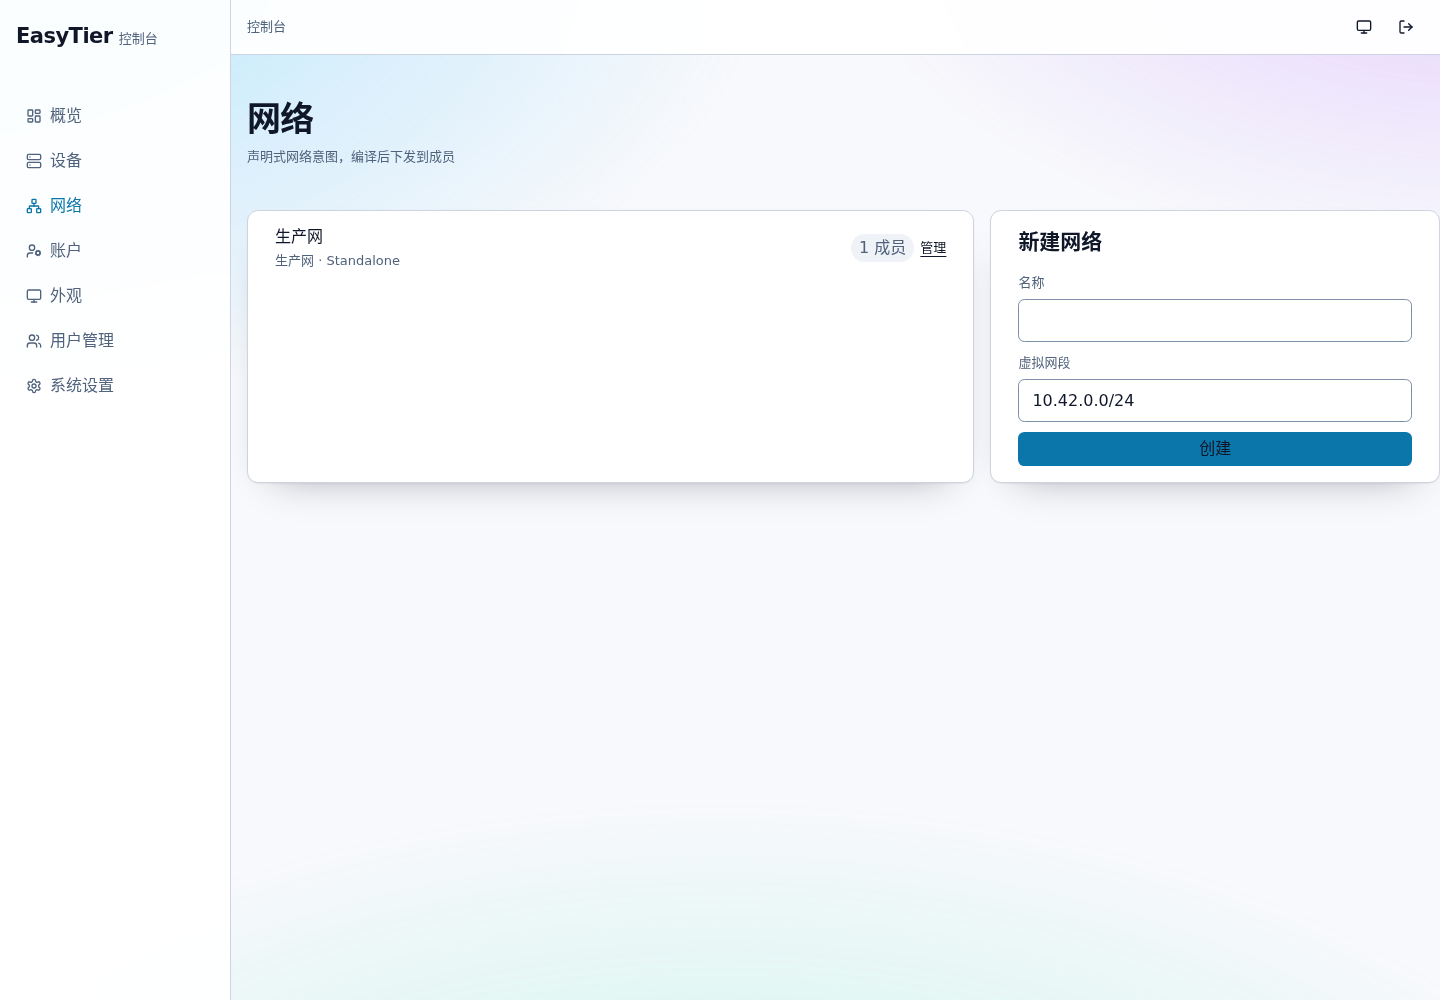
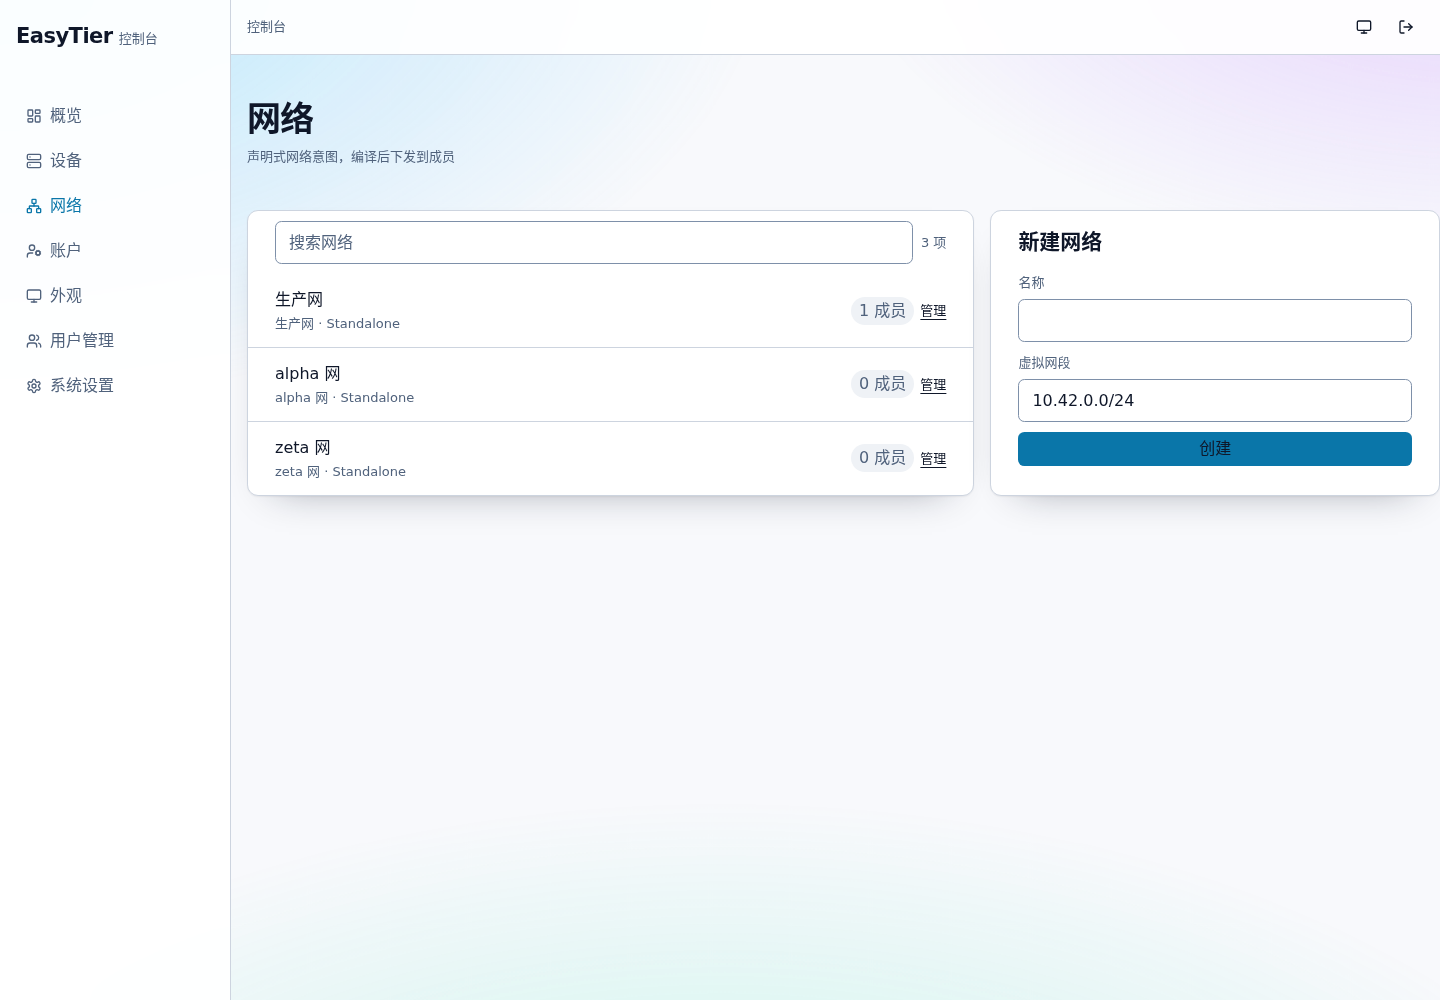
client: search, sort and a count on the network list
The original list filters as you type, sorts by display name and shows how many
items are left; all three are local to the page. Verified in a browser: typing
alpha leaves one row, a miss shows the empty state with a clear button, and the
order matches the browser's own collation.

diff --git a/client/src/features/networks/networks-page.tsx b/client/src/features/networks/networks-page.tsx
@@ -10,6 +10,7 @@ export function NetworksPage() {
   const networks = useQuery({ queryKey: ['networks'], queryFn: api.networks });
   const [name, setName] = useState('');
   const [cidr, setCidr] = useState('10.42.0.0/24');
+  const [query, setQuery] = useState('');
 
   const create = useMutation({
     mutationFn: () => api.createNetwork(name, cidr),
@@ -26,6 +27,19 @@ export function NetworksPage() {
   };
 
   const rows = networks.data ?? [];
+  // The original console filters as you type and sorts by display name; both are
+  // local to the page because the list is small and the server has no query.
+  const needle = query.trim().toLocaleLowerCase();
+  const visible = rows
+    .filter((network) => {
+      if (!needle) return true;
+      return (
+        network.display_name.toLocaleLowerCase().includes(needle) ||
+        network.network_name.toLocaleLowerCase().includes(needle)
+      );
+    })
+    .slice()
+    .sort((a, b) => a.display_name.localeCompare(b.display_name));
 
   return (
     <div className="space-y-[var(--gap-section)]">
@@ -39,6 +53,20 @@ export function NetworksPage() {
       <div className="phi-split gap-[var(--gap-card)]">
         <Card>
           <CardBody className="p-0">
+          <div className="flex flex-wrap items-center justify-between gap-[var(--u-3)] px-[var(--pad-card)] py-[var(--u-4)]">
+            <label className="min-w-0 flex-1">
+              <span className="sr-only">{copy.networks.search}</span>
+              <Input
+                value={query}
+                onChange={(event) => setQuery(event.target.value)}
+                placeholder={copy.networks.search}
+                aria-label={copy.networks.search}
+              />
+            </label>
+            <span className="shrink-0 text-phi-sm text-muted-foreground">
+              {visible.length} {copy.networks.count}
+            </span>
+          </div>
             {networks.isLoading ? (
               <div className="space-y-[var(--u-3)] p-[var(--pad-card)]">
                 <Skeleton className="h-[var(--u-10)]" />
@@ -48,7 +76,15 @@ export function NetworksPage() {
             {!networks.isLoading && rows.length === 0 ? (
               <p className="p-[var(--pad-card)] text-phi-sm text-muted-foreground">{copy.networks.empty}</p>
             ) : null}
-            {rows.map((network) => (
+            {!networks.isLoading && rows.length > 0 && visible.length === 0 ? (
+              <div className="space-y-[var(--u-2)] p-[var(--pad-card)]">
+                <p className="text-phi-sm text-muted-foreground">{copy.networks.searchEmpty}</p>
+                <Button variant="ghost" onClick={() => setQuery("")}>
+                  {copy.networks.searchClear}
+                </Button>
+              </div>
+            ) : null}
+            {visible.map((network) => (
               <div key={network.network_id} className="flex items-center justify-between gap-[var(--u-4)] border-b border-border px-[var(--pad-card)] py-[var(--u-5)] last:border-0">
                 <div className="min-w-0">
                   <p className="truncate text-phi-base font-medium">{network.display_name}</p>

diff --git a/client/src/copy/zh-CN.ts b/client/src/copy/zh-CN.ts
@@ -114,6 +114,10 @@ export const copy = {
     detailTabSettings: '设置',
     detailMissing: '这个网络不存在，或你无权访问。',
     detailManage: '管理',
+    search: '搜索网络',
+    searchEmpty: '没有匹配的网络',
+    searchClear: '清空搜索',
+    count: '项',
     title: '网络',
     subtitle: '声明式网络意图，编译后下发到成员',
     empty: '还没有网络',

diff --git a/ai-censorship/ledger.md b/ai-censorship/ledger.md
@@ -295,3 +295,4 @@
 | F-289 | r221 | R-A 前端 | P2 | 网络详情做成了列表页里的内联展开，与原版（`networks/:networkId` 独立页）不一致：不能收藏、不能直接访问、刷新即丢选中状态 | FIXED | 新增 network-detail-page.tsx 并注册 `/networks/:networkID` 路由：页头（名称/方式/虚拟网段/成员数）+「成员」「设置」页签；列表页恢复为纯列表，每行一个「管理」链接。浏览器实测：URL 变为 sub-page、成员页签出现 edge-hk-01、设置页签出现高级设置、**刷新后仍可打开**，0 console error、0 失败请求 |
 | F-290 | r222 | R-A 前端 | P2 | 网络子页面只有「成员」「设置」两个页签，ACL 与凭据都压在设置里；原版是四个页签（members / acl / credentials / settings），信息架构仍不完全一致 | FIXED | 拆出 network-acl-panel.tsx 与 network-credentials-panel.tsx，network-settings.tsx 只留改名与高级设置；详情页四个页签各自独立组件。浏览器实测：页签名依次为「成员/访问控制/凭据/设置」，**每个页签只显示自己的内容**（成员页出现 edge-hk-01、ACL 页只出现编辑器、凭据页只出现签发、设置页出现名称与高级设置），刷新仍可打开，0 console error；check-ui 32 个组件、设计令牌 41 文件通过 |
 | F-291 | r223 | R-A 前端 | P2 | 设备沿用列表内联展开（点「路由」就地展开），与原版 `deviceList/device/:deviceId` 的设备子页面不一致；而且看不到"这台设备在哪些网络里、各自什么虚拟 IP" | FIXED | 新增 device-detail-page.tsx 并注册 `/devices/:machineID`：页头（名称/machine id/在线/版本/接入地址/最后在线）+「所属网络」（网络名、虚拟 IP、运行中标记、跳转网络）；列表页每行改为「详情」链接。浏览器实测：URL 变为 /devices/{id}、页头与网络行渲染、刷新仍可打开、0 console error；check-ui 33 组件、令牌 42 文件通过 |
+| F-292 | r224 | R-A 前端 | P2 | 网络列表没有搜索、没有排序、也没有条数；原版 NetworkList 输入即过滤、按显示名排序、显示「N 项」与空结果提示 | FIXED | networks-page 增加本地过滤（display_name / network_name，忽略大小写）、按 display_name 的 localeCompare 排序、右上角计数、无匹配时显示「没有匹配的网络」+「清空搜索」。Playwright 实测：输入 alpha 只剩 1 条、输错出现空态、清空恢复 3 条、计数 3 项；顺序用浏览器自己的 localeCompare 校验（第一次用 Node 默认 locale 复算导致误报） |

diff --git a/ai-censorship/review-20261101-r224.md b/ai-censorship/review-20261101-r224.md
@@ -1,0 +1,29 @@
+# 第 224 轮评审（2026-11-01）— 网络列表的搜索与排序
+
+原版 NetworkList 有三件事我们没有：输入即过滤、按显示名排序、显示「N 项」并在无结果时给「清空搜索」。
+
+## 1. 实现
+
+三处都是页面本地状态，不新增接口：过滤按 display_name / network_name 忽略大小写包含；
+排序用 display_name 的 localeCompare；计数与空态跟着过滤结果走。
+
+## 2. 浏览器实测（Playwright）
+
+| 断言 | 结果 |
+|---|---|
+| 输入 alpha 后只剩 1 条 | 通过 |
+| 输入不存在时出现「没有匹配的网络」 | 通过 |
+| 点「清空搜索」恢复 3 条 | 通过 |
+| 计数显示「3 项」 | 通过 |
+| 顺序与浏览器 localeCompare 一致 | 通过 |
+| console error / 失败请求 | 0 |
+
+## 3. 一次误报
+
+第一次跑断言时 sorted=false——因为我在 Node 里用默认 locale 的 localeCompare 复算，
+和浏览器 zh-CN 的 collation 规则不同。改成在页面内让浏览器自己排序再比较，结果一致。
+这是测试写法的问题，不是排序没做。
+
+## 4. 状态
+
+目标第 2 项完成。剩下第 3 项：凭据表格补齐原版列（ACL 组、允许中继、可复用、过期）。

diff --git a/docs/screenshots/README.md b/docs/screenshots/README.md
@@ -9,7 +9,8 @@
 | `02-dashboard.png` | / | 概览 |
 | `03-devices.png` | /devices | 设备 |
 | `03-devices.png` | /devices | 设备列表（每行一个「详情」链接） |
-| `04-networks.png` | /networks | 网络列表（每行一个「管理」链接） |
+| `04-networks.png` | /networks | 网络列表（搜索框 + 计数 + 每行「管理」） |
+| `04a-networks-filtered.png` | /networks（搜索后） | 搜索命中只剩一条，计数随之变化 |
 | `05-network-members.png` | /networks/{id} · 成员 | 子页面·成员页签 |
 | `05a-network-acl.png` | /networks/{id} · 访问控制 | 子页面·访问控制页签（ACL JSON 编辑器） |
 | `05b-network-credentials.png` | /networks/{id} · 凭据 | 子页面·凭据页签（签发/吊销，密钥只显示一次） |
